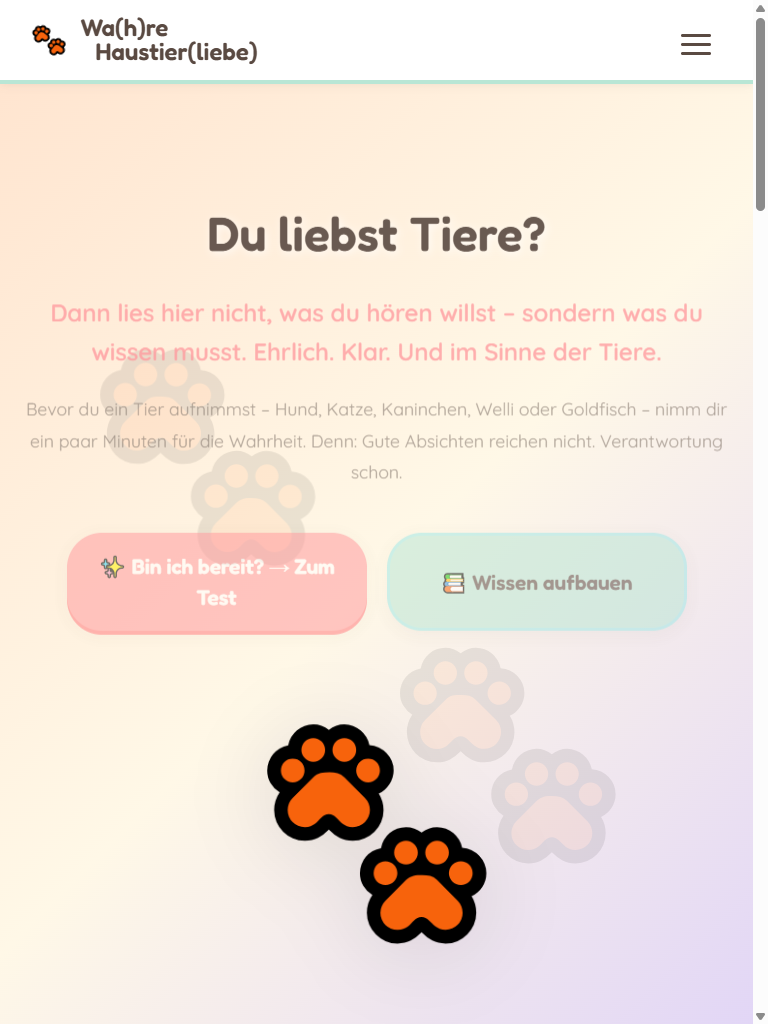
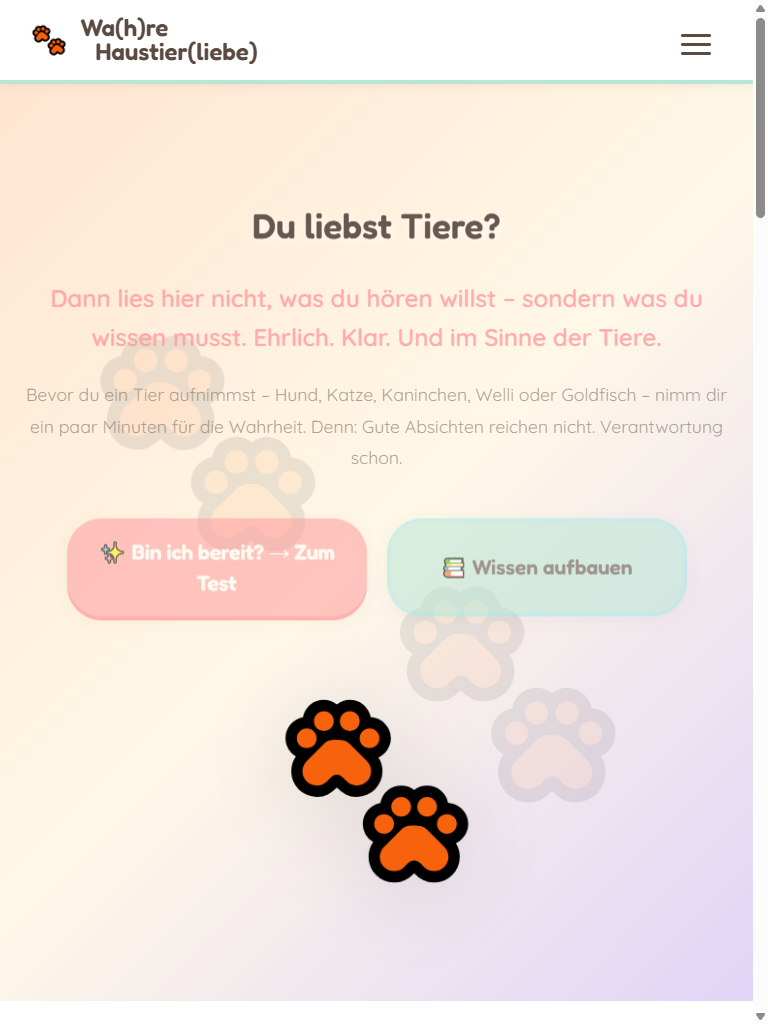
Auto commit

diff --git a/webworks-theme/js/tierliebe-filter.js b/webworks-theme/js/tierliebe-filter.js
@@ -109,7 +109,7 @@
             new TierliebeFilter(this);
         });
 
-        // Mythen Page Filter (simple version)
+        // Mythen Page Filter (enhanced with animation)
         $('.filter-btn').on('click', function() {
             const filter = $(this).data('filter');
 
@@ -117,19 +117,35 @@
             $('.filter-btn').removeClass('active');
             $(this).addClass('active');
 
-            // Filter cards
-            if (filter === 'all') {
-                $('.mythos-card').fadeIn(300).removeClass('hidden');
-            } else {
-                $('.mythos-card').each(function() {
-                    const category = $(this).data('category');
-                    if (category === filter || category === 'all') {
-                        $(this).fadeIn(300).removeClass('hidden');
-                    } else {
-                        $(this).fadeOut(300).addClass('hidden');
-                    }
-                });
-            }
+            // Add animation-out class first
+            $('.mythos-card').addClass('filter-out');
+
+            // Wait for animation, then filter
+            setTimeout(function() {
+                if (filter === 'all') {
+                    $('.mythos-card')
+                        .removeClass('hidden filter-out')
+                        .addClass('filter-in');
+                } else {
+                    $('.mythos-card').each(function() {
+                        const category = $(this).data('category');
+                        if (category === filter || category === 'all') {
+                            $(this)
+                                .removeClass('hidden filter-out')
+                                .addClass('filter-in');
+                        } else {
+                            $(this)
+                                .removeClass('filter-in')
+                                .addClass('hidden');
+                        }
+                    });
+                }
+
+                // Remove filter-in class after animation
+                setTimeout(function() {
+                    $('.mythos-card').removeClass('filter-in');
+                }, 400);
+            }, 200);
         });
     });
 

diff --git a/webworks-theme/css/tierliebe-pages.css b/webworks-theme/css/tierliebe-pages.css
@@ -66,17 +66,59 @@
     border-radius: 35px;
     padding      : 35px;
     box-shadow   : var(--shadow-md);
-    transition   : all 0.3s ease;
+    transition   : all 0.3s ease, transform 0.4s cubic-bezier(0.34, 1.56, 0.64, 1), opacity 0.3s ease, filter 0.3s ease;
     border       : 3px solid var(--pastel-coral);
+    opacity      : 1;
+    transform    : scale(1) translateY(0);
+    filter       : blur(0);
 }
 
 .mythos-card:hover {
-    transform : translateY(-5px);
+    transform : translateY(-5px) scale(1);
     box-shadow: var(--shadow-xl);
 }
 
 .mythos-card.hidden {
     display: none;
+}
+
+/* Filter Animationen */
+.mythos-card.filter-out {
+    opacity  : 0;
+    transform: scale(0.9) translateY(10px);
+    filter   : blur(3px);
+}
+
+.mythos-card.filter-in {
+    animation: filterSlideIn 0.4s cubic-bezier(0.34, 1.56, 0.64, 1) forwards;
+}
+
+/* Gestaffelte Animation für Karten */
+.mythos-card.filter-in:nth-child(1) { animation-delay: 0s; }
+.mythos-card.filter-in:nth-child(2) { animation-delay: 0.05s; }
+.mythos-card.filter-in:nth-child(3) { animation-delay: 0.1s; }
+.mythos-card.filter-in:nth-child(4) { animation-delay: 0.15s; }
+.mythos-card.filter-in:nth-child(5) { animation-delay: 0.2s; }
+.mythos-card.filter-in:nth-child(6) { animation-delay: 0.25s; }
+.mythos-card.filter-in:nth-child(7) { animation-delay: 0.3s; }
+.mythos-card.filter-in:nth-child(8) { animation-delay: 0.35s; }
+.mythos-card.filter-in:nth-child(9) { animation-delay: 0.4s; }
+.mythos-card.filter-in:nth-child(10) { animation-delay: 0.45s; }
+.mythos-card.filter-in:nth-child(11) { animation-delay: 0.5s; }
+.mythos-card.filter-in:nth-child(12) { animation-delay: 0.55s; }
+.mythos-card.filter-in:nth-child(13) { animation-delay: 0.6s; }
+
+@keyframes filterSlideIn {
+    from {
+        opacity  : 0;
+        transform: scale(0.85) translateY(20px) rotate(-2deg);
+        filter   : blur(5px);
+    }
+    to {
+        opacity  : 1;
+        transform: scale(1) translateY(0) rotate(0deg);
+        filter   : blur(0);
+    }
 }
 
 .mythos-header {

diff --git a/webworks-theme/css/tierliebe-responsive.css b/webworks-theme/css/tierliebe-responsive.css
@@ -46,21 +46,26 @@
         padding: 15px 0;
     }
 
+    /* Headlines dürfen umbrechen auf mobil */
+    h1, h2, h3, h4, h5, h6 {
+        white-space: normal;
+    }
+
     /* Other Responsive Adjustments */
     .primary-hero {
         padding: 120px 25px 70px;
     }
 
     .primary-hero-title {
-        font-size: 3.5rem;
+        font-size: 2.5rem;
     }
 
     .primary-hero-subtitle {
-        font-size: 1.4rem;
+        font-size: 1.2rem;
     }
 
     .primary-hero-description {
-        font-size: 1.1rem;
+        font-size: 1rem;
     }
 
     .section {
@@ -111,15 +116,15 @@
     }
 
     .hero-text h1 {
-        font-size: 3rem;
+        font-size: 2.2rem;
     }
 
     .hero-main-icon {
-        font-size: 12rem;
+        font-size: 10rem;
     }
 
     .section-title {
-        font-size: 2.5rem;
+        font-size: 2rem;
     }
 
     .cards-grid {
@@ -187,6 +192,30 @@
     .hamburger {
         width: 26px;
     }
+
+    .primary-hero-title {
+        font-size: 1.5rem;
+    }
+
+    .hero-text h1 {
+        font-size: 1.4rem;
+    }
+
+    .section-title {
+        font-size: 1.4rem;
+    }
+
+    h2 {
+        font-size: 1.3rem;
+    }
+
+    h3 {
+        font-size: 1.1rem;
+    }
+
+    h4 {
+        font-size: 1rem;
+    }
 }
 
 @media (max-width: 640px) {
@@ -215,15 +244,15 @@
     }
 
     .primary-hero-title {
-        font-size: 2.5rem;
+        font-size: 1.8rem;
     }
 
     .primary-hero-subtitle {
-        font-size: 1.2rem;
+        font-size: 1rem;
     }
 
     .primary-hero-description {
-        font-size: 1rem;
+        font-size: 0.9rem;
     }
 
     .hero-buttons {
@@ -264,7 +293,7 @@
     }
 
     .hero-text h1 {
-        font-size: 2.2rem;
+        font-size: 1.6rem;
     }
 
     .section {
@@ -272,7 +301,7 @@
     }
 
     .section-title {
-        font-size: 2rem;
+        font-size: 1.6rem;
     }
 
     .section-header {

diff --git a/webworks-theme/css/tierliebe-core.css b/webworks-theme/css/tierliebe-core.css
@@ -76,6 +76,7 @@ h6 {
     font-family: 'Fredoka', sans-serif;
     color      : var(--text-dark);
     font-weight: 600;
+    white-space: nowrap;
 }
 
 h1 {
